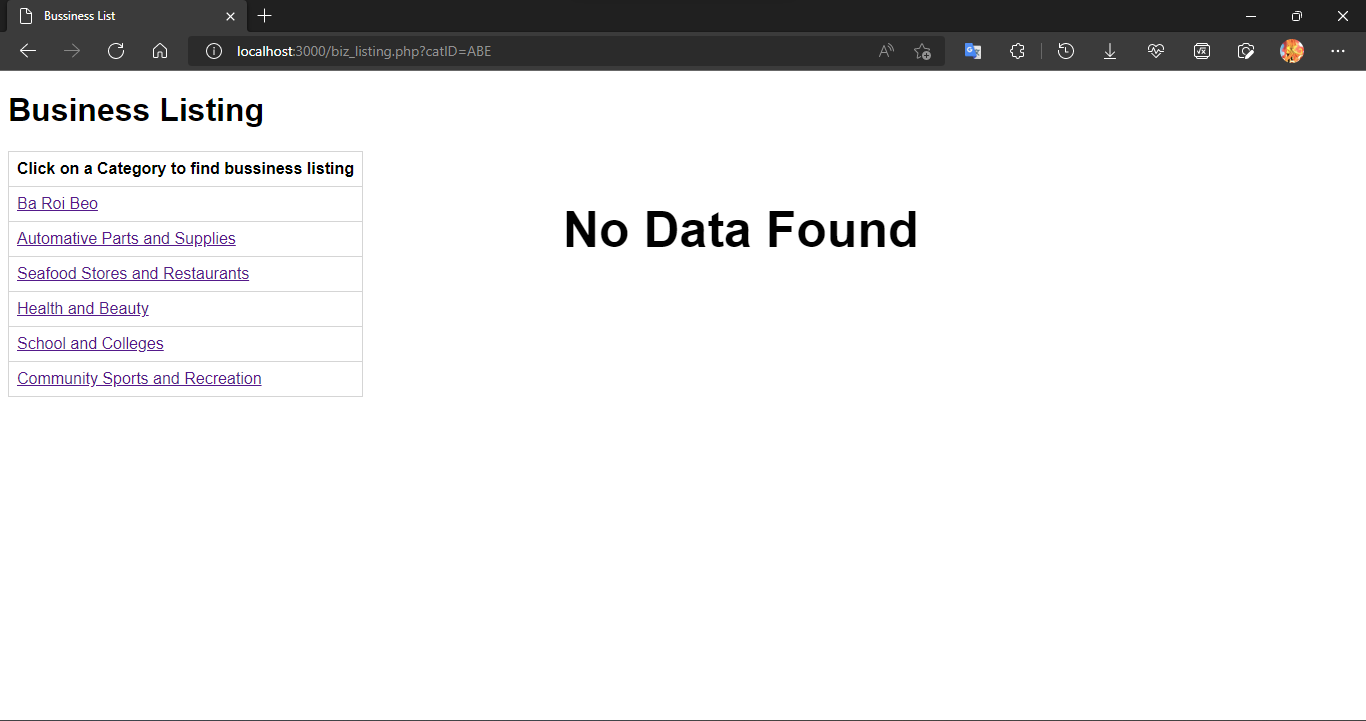
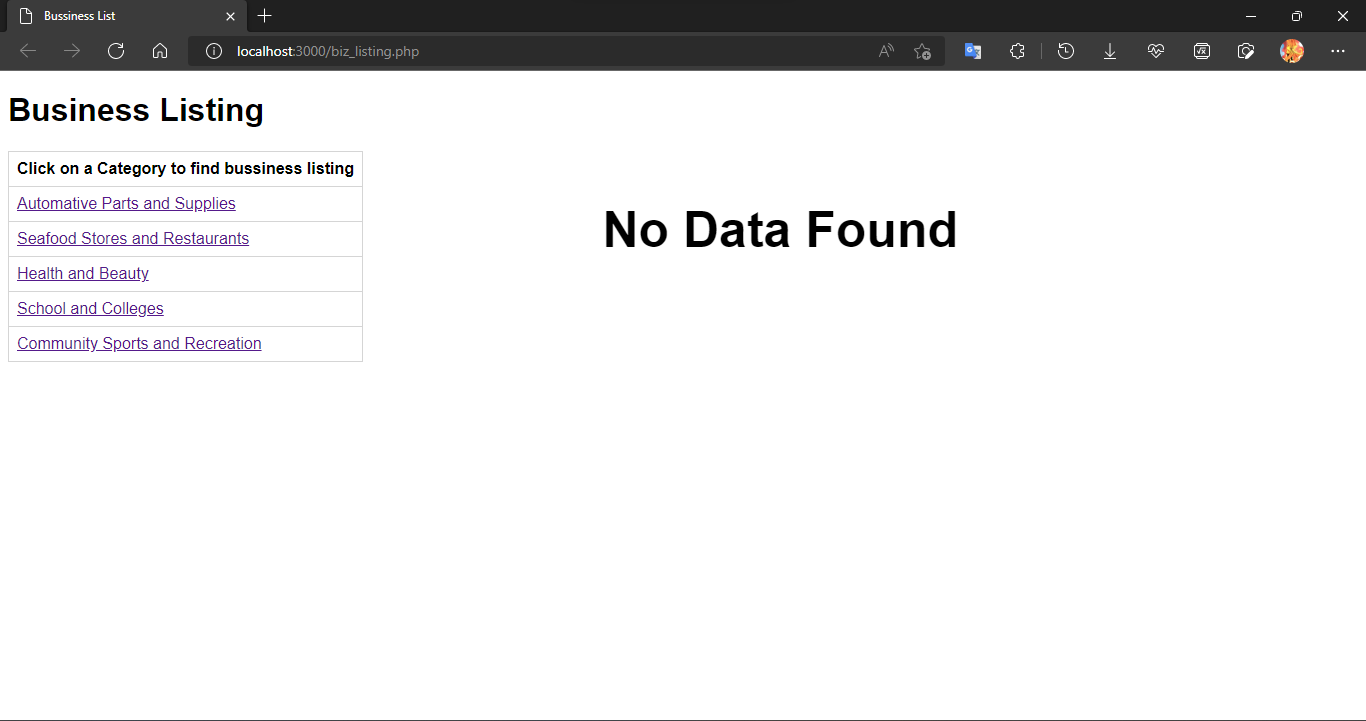
update

diff --git a/Lab 04/4.4/add_biz.php b/Lab 04/4.4/add_biz.php
@@ -192,7 +192,7 @@ if (isset($_POST['button'])) {
                         foreach ($fetchData as $data) { ?>
                             <?php if (in_array($data['CategoryID'], $array)) { ?>
 
-                                <option selected="true" value="<?php echo $data['CategoryID'] ?>"><?php echo $data['Title'] ?? ''; ?></option>
+                                <option selected="true" style="color:#fff" value="<?php echo $data['CategoryID'] ?>"><?php echo $data['Title'] ?? ''; ?></option>
                             <?php  } else { ?>
                                 <option value="<?php echo $data['CategoryID'] ?>"><?php echo $data['Title'] ?? ''; ?></option>
                             <?php } ?>

diff --git a/Lab 04/4.5/biz_listing.php b/Lab 04/4.5/biz_listing.php
@@ -66,11 +66,12 @@ if ($result == true) {
     p {
         font-size: 50px;
         font-weight: 600;
-        margin-left: 200px;
+        margin-right: 400px;
     }
 
     .container {
         display: flex;
+        justify-content: space-between;
     }
 
 
